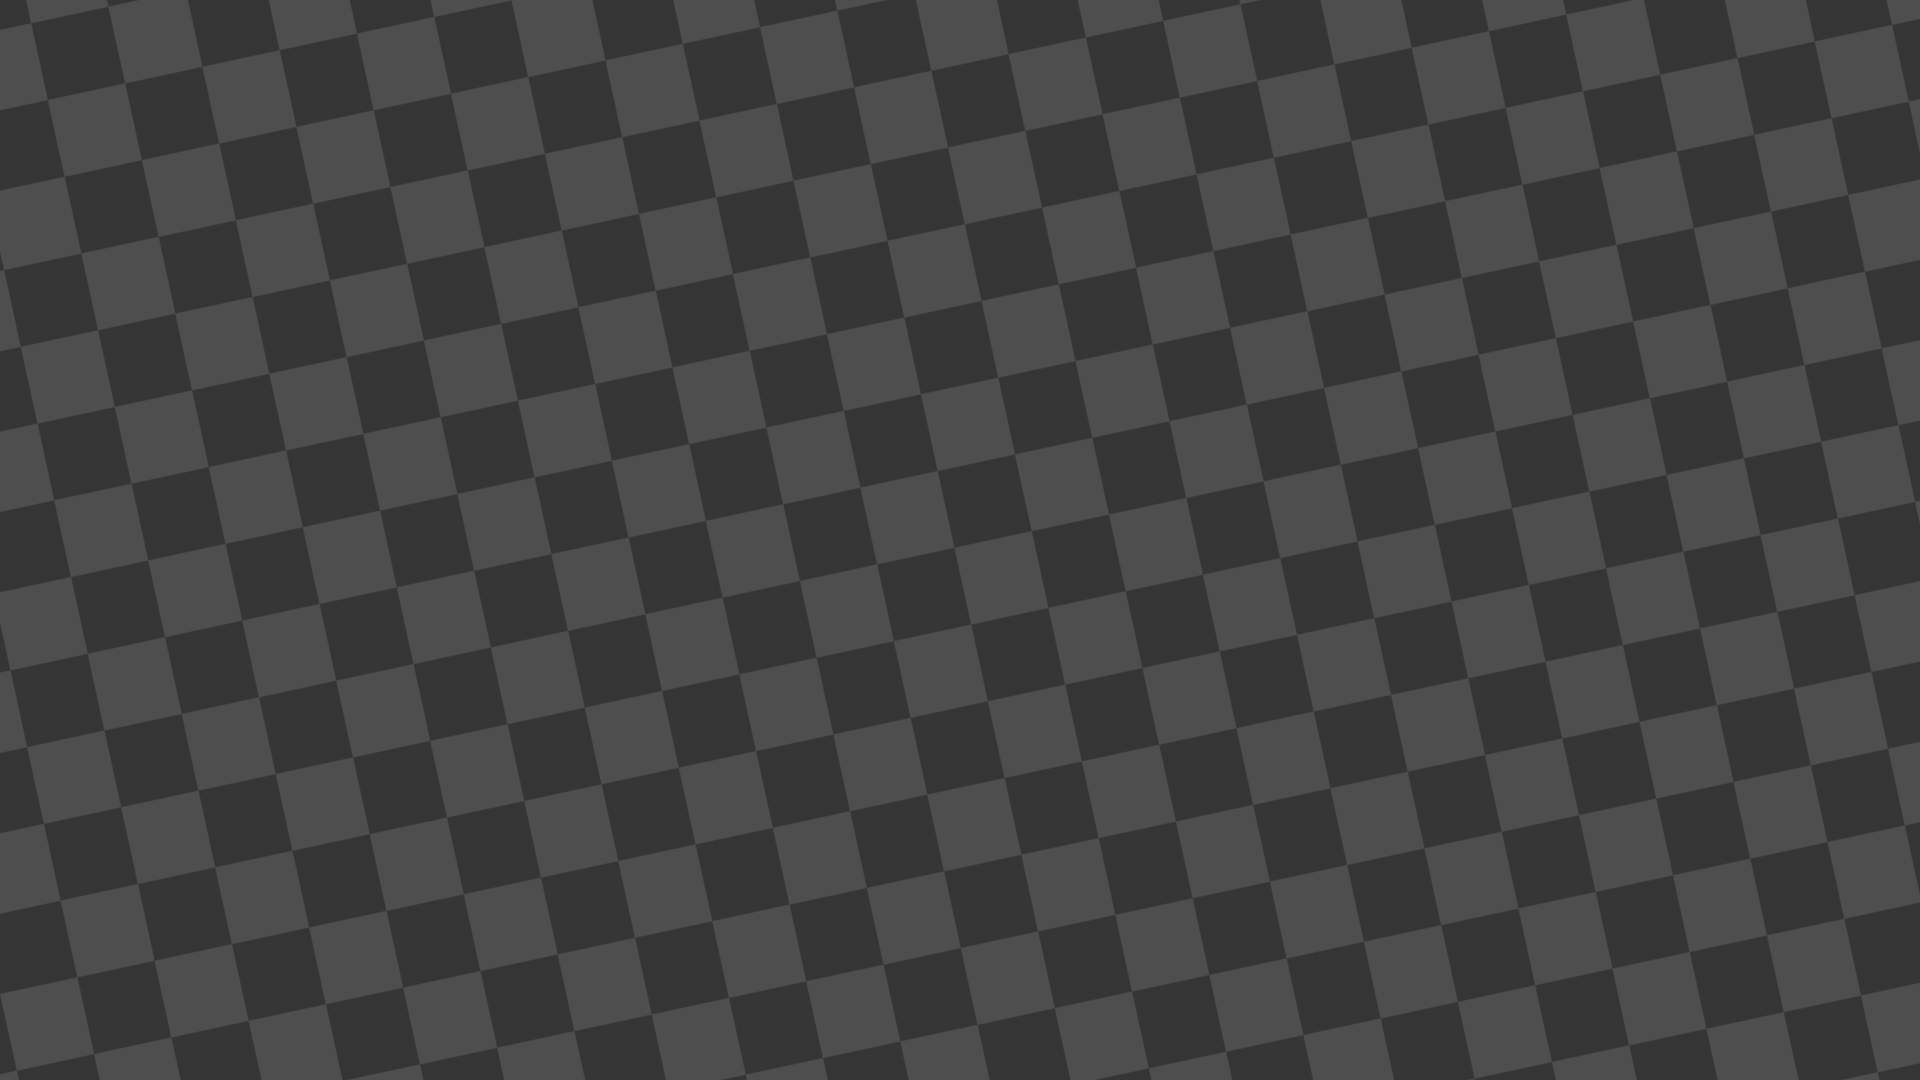
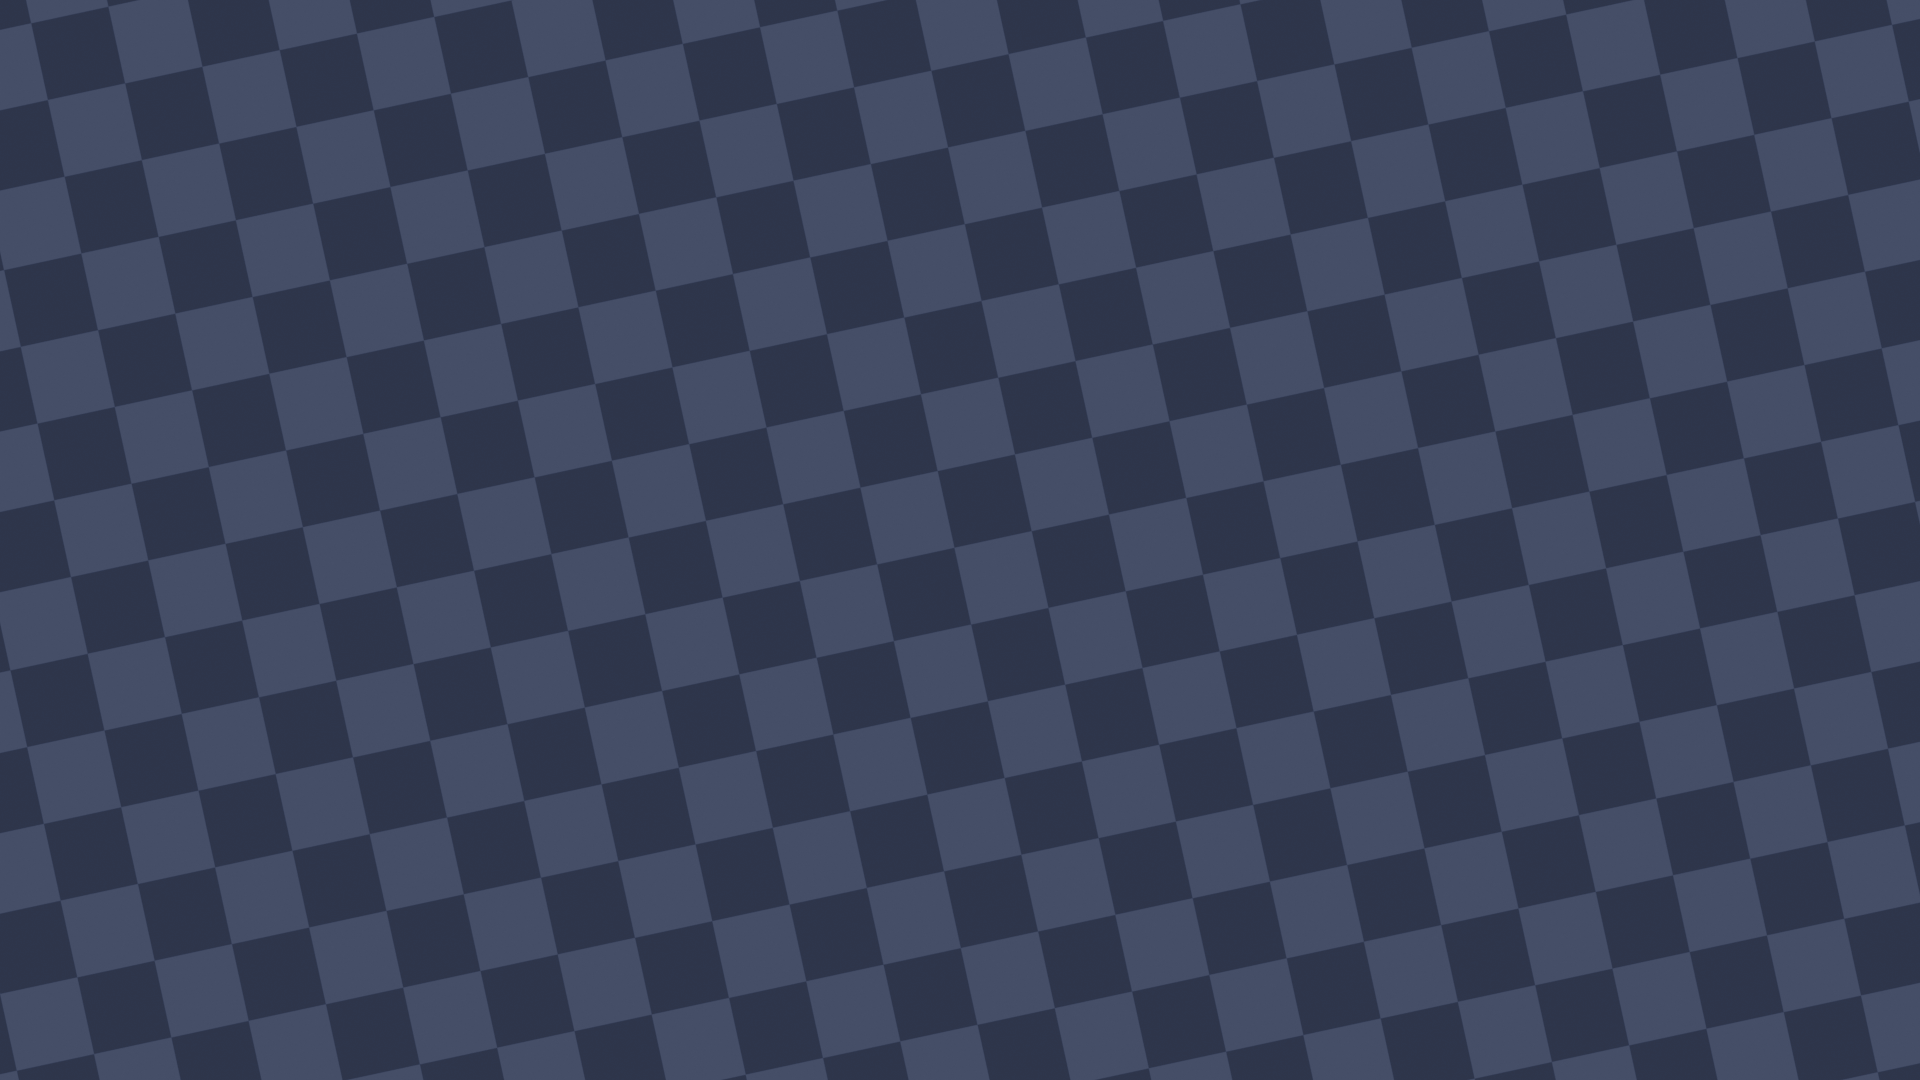
new design

diff --git a/ts/apps/novenv/views/venv/venv.html b/ts/apps/novenv/views/venv/venv.html
@@ -13,11 +13,11 @@
 
     <div class="swiper-wrapper">
         <div id="intro" class="swiper-slide">
-            <div class="round" id="intro-video-container">
+            <div class="round" style="filter: sepia()hue-rotate(170deg)saturate(.5)" id="intro-video-container">
                 <video muted loop autoplay class="round"
                     src="/ts/apps/novenv/assets/images/art_stuff/completed/12.mp4"></video>
             </div>
-            <img class="" src="/ts/apps/novenv/assets/images/logo3.png">
+            <img  style="mix-blend-mode: luminosity;" class="" src="/ts/apps/novenv/assets/images/logo3.png">
             <b>
                 <span id="mobile-inst">
                     <span class="touch-font">
@@ -40,7 +40,7 @@
         </div>
 
         <div class="round swiper-slide big_pad">
-            <h1>about myself</h1>
+            <h1>about myself:</h1>
             <p>i don't have that much to say about myself, other than i like topics related to art and graphics stuff
             </p>
             <br>
@@ -58,7 +58,8 @@
                 </div>
                 <div class="bullet_p">
                     <h2>i dislike</h2>
-                    <p>ai. (aka tech bro stealing machine 9000) im an artist, so you can understand why and given the chance i'd piss on the data centres
+                    <p>ai. (aka tech bro stealing machine 9000) im an artist, so you can understand why and given the
+                        chance i'd piss on the data centres
                     </p>
                     <p>annoying people</p>
                     <p>assholes</p>
@@ -104,7 +105,7 @@
         </div> -->
 
         <div id="hobbies" class="swiper-slide big_pad">
-            <h1>i like to do these stuff</h1>
+            <h1>i like to do these stuff:</h1>
             <div class="hobbies-grid hobbies-400px">
                 <div class="">
                     <img class="" src="/ts/apps/novenv/assets/images/about/renders_wireframe/Art.png">
@@ -174,30 +175,45 @@
                     <h1 id="clock-time">00:00</h1>
                 </div>
                 <div class="info-filled round">
-                    <p> <i class="bi bi-discord"></i> discord - venv</p>
+                    <p> <b><i class="bi bi-discord"></i> discord - venv</b></p>
                 </div>
                 <div class="info-filled round">
                     <p>
-                        <i class="bi bi-bluesky"></i>
-                        <a href="https://bsky.app/profile/venv-at.bsky.social">my bluesky where i chronically use </a>
+                        <b>
+                            <i class="bi bi-bluesky"></i>
+                            <a href="https://bsky.app/profile/venv-at.bsky.social">my bluesky where i chronically use
+                            </a>
+                        </b>
                     </p>
                 </div>
                 <div class="info-filled round">
                     <p>
-                        <i class="bi bi-youtube"></i>
-                        <a href="https://www.youtube.com/@venv-loves-cats">my youtube where i barely use</a>
+                        <b>
+
+                            <i class="bi bi-youtube"></i>
+                            <a href="https://www.youtube.com/@venv-loves-cats">my youtube where i barely use</a>
+                        </b>
+
                     </p>
                 </div>
                 <div class="info-filled round">
                     <p>
-                        <i class="bi bi-github"></i>
-                        <a href="https://github.com/no-venv/">my github where i publish bad code</a>
+                        <b>
+
+                            <i class="bi bi-github"></i>
+                            <a href="https://github.com/no-venv/">my github where i publish bad code</a>
+                        </b>
+
                     </p>
                 </div>
                 <div class="info-filled round">
                     <p>
-                        <i class="bi bi-braces"></i>
-                        <a href="https://leetcode.com/u/user9069aa/">my leetcode where i barely use</a>
+                        <b>
+
+                            <i class="bi bi-braces"></i>
+                            <a href="https://leetcode.com/u/user9069aa/">my leetcode where i barely use</a>
+                        </b>
+
                     </p>
                 </div>
             </div>

diff --git a/ts/apps/novenv/views/venv/venv.css b/ts/apps/novenv/views/venv/venv.css
@@ -21,7 +21,9 @@
     height: 100%;
     position: absolute;
     z-index: -2;
-
+    video{
+        mix-blend-mode: luminosity;
+    }
     >div {
         /* display: none; */
         opacity: 70%;
@@ -268,6 +270,15 @@ video {
     #clock-time {
         mix-blend-mode: luminosity;
     }
+
+    .info-filled {
+        * {
+            color: var(--text-alt) !important;
+
+        }
+
+    }
+
 }
 
 #my-socials {
@@ -281,6 +292,7 @@ video {
     #endtext_img {
         object-fit: cover !important;
     }
+
 
     grid-column: 1 / 3;
     grid-row: 4 / 6;

diff --git a/assets/css/main.css b/assets/css/main.css
@@ -26,7 +26,8 @@ viewport-begin {
     background-color: var(--dark-blue);
 }
 
-#app-viewport ,.viewport {
+#app-viewport,
+.viewport {
     display: flex;
     flex-direction: row;
     width: 100%;
@@ -221,7 +222,8 @@ b {
     display: none !important;
 }
 
-.round , .art_img {
+.round,
+.art_img {
     border-radius: 8px 8px 8px 8px;
 }
 
@@ -251,3 +253,10 @@ input::placeholder {
     color: var(--color1);
     font-weight: bold;
 }
+
+p {
+    font-size: 18px;
+
+}
+
+

diff --git a/ts/apps/novenv/views/draw/draw.ts b/ts/apps/novenv/views/draw/draw.ts
@@ -1,0 +1,11 @@
+import { NewView } from "../../../../core/view.js";
+
+NewView("draw", {
+    on_visibility(visible) {
+
+    },
+    onload() {
+        
+    },
+
+})

diff --git a/ts/apps/novenv/views/draw/draw.html b/ts/apps/novenv/views/draw/draw.html
@@ -1,0 +1,10 @@
+<div  id="app-draw">
+    <style>
+        #app-draw-iframe{
+            width: 100%;
+            height: 100%;
+        }
+    </style>
+    <iframe class="round"  id="app-draw-iframe" src="https://venv.straw.page/"></iframe>
+</div>
+

diff --git a/assets/css/fonts.css b/assets/css/fonts.css
@@ -4,10 +4,15 @@
     font-family: soopafre;
     src: url("/assets/fonts/soopafresh/soopafre.ttf");
 }
-
+/* 
 @font-face {
     font-family: sf;
     src: url("/assets/fonts/sf-pro-display/SFPRODISPLAYREGULAR.OTF");
+} */
+
+@font-face {
+    font-family: sf;
+    src: url("/assets/fonts/unageo/variable/Unageo[wght].ttf");
 }
 
 @font-face {

diff --git a/assets/css/themes.css b/assets/css/themes.css
@@ -3,9 +3,10 @@ https://lospec.com/palette-list/golden-haze */
 .site-theme {
     /* e63946 */
     /* FFF2EA */
-    --primary: #ed75c5;
-    --secondary: #ff8960;
-    --text: #FFF2EA;
+    --primary: #bdff00;
+    --secondary: #bdff00;
+    --text: #ffffff;
+    --text-alt: #000000;
     --background: #21181b;
     --color7: #FFF2EA;
     --color8: #FFF2EA;

diff --git a/ts/apps/novenv/import.ts b/ts/apps/novenv/import.ts
@@ -1,8 +1,9 @@
 import { set_app } from "../../core/view.js"
 import "./views/venv/venv.js"
-import "./views/art_stuff/art_stuff.js"
+import "./views/art/art.js"
 import "./views/photos/photos.js"
 import "./views/cool_sites/cool_sites.js"
 import "./views/guestbook/guestbook.js"
+import "./views/draw/draw.js"
 // import "./views/cool_websites/coo.js"
 set_app("novenv", "venv")

diff --git a/ts/apps/novenv/views/cool_sites/cool_sites.css b/ts/apps/novenv/views/cool_sites/cool_sites.css
@@ -2,7 +2,7 @@
     display: flex;
     flex-direction: column;
     gap: 16px;
-    font-size: 24px;
+    font-size: 24px  !important;
 
     a {
         display: flex;